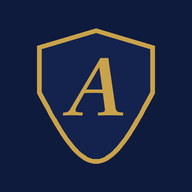
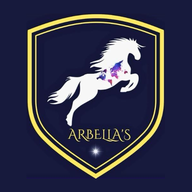
Add files via upload

Changed region(s): [[0.125, 0.0625, 0.875, 0.9375]]

diff --git a/index.html b/index.html
@@ -3,15 +3,16 @@
 <head>
 <meta charset="utf-8">
 <meta name="viewport" content="width=device-width,initial-scale=1,viewport-fit=cover">
-<meta name="theme-color" content="#0F1B3D">
+<meta name="theme-color" content="#171A3D">
 <meta name="apple-mobile-web-app-capable" content="yes">
 <meta name="mobile-web-app-capable" content="yes">
 <meta name="apple-mobile-web-app-status-bar-style" content="black-translucent">
-<meta name="apple-mobile-web-app-title" content="Arbella Studio">
+<meta name="apple-mobile-web-app-title" content="Arbellas Studio">
 <link rel="manifest" href="manifest.json">
+<link rel="icon" type="image/png" sizes="32x32" href="favicon-32.png">
 <link rel="icon" type="image/png" sizes="192x192" href="icon-192.png">
 <link rel="apple-touch-icon" href="apple-touch-icon.png">
-<title>Arbella Studio</title>
+<title>Arbellas Studio</title>
 <link rel="preconnect" href="https://fonts.googleapis.com">
 <link rel="stylesheet" href="https://fonts.googleapis.com/css2?family=Anton&family=Bodoni+Moda:ital,opsz,wght@0,6..96,500;0,6..96,700;1,6..96,500;1,6..96,700&family=Manrope:wght@400;600;800&display=swap">
 <style>
@@ -42,7 +43,7 @@ body{background:var(--bg);color:var(--ink);font-family:var(--body);font-size:15p
 header{display:flex;align-items:center;gap:12px}
 .brand{flex:1;min-width:0}
 .gear{flex:none}
-.mark{width:40px;height:46px;flex:none}
+.mark{width:46px;height:46px;flex:none;border-radius:11px;display:block}
 .brand h1{font-family:var(--display);font-style:italic;font-weight:700;font-size:28px;line-height:1;margin:0;color:var(--navy);text-wrap:balance}
 .brand p{margin:2px 0 0;color:var(--muted);font-size:13px}
 .grid{display:grid;grid-template-columns:1fr;gap:20px}
@@ -125,9 +126,9 @@ video#result{width:100%;max-width:340px;border-radius:14px;display:block;margin:
 
 <div class="wrap">
   <header>
-    <svg class="mark" viewBox="0 0 40 46" aria-hidden="true"><path d="M20 2 37 8v14c0 11-7.5 18-17 22C10.5 40 3 33 3 22V8z" fill="#0F1B3D" stroke="#C9A24A" stroke-width="2"/><text x="20" y="29" text-anchor="middle" font-family="Bodoni Moda, Georgia, serif" font-style="italic" font-weight="700" font-size="20" fill="#C9A24A">A</text></svg>
[1 lines of base64/hex data omitted]
     <div class="brand">
-      <h1>Arbella Studio</h1>
+      <h1>Arbellas Studio</h1>
       <p>Fotos de tu producto → guion con IA → video vertical para TikTok Shop</p>
     </div>
     <button class="gear" id="gearBtn" type="button" aria-expanded="false" aria-controls="settings"><span class="ai-dot" id="aiDot"></span>Ajustes</button>
@@ -294,6 +295,7 @@ video#result{width:100%;max-width:340px;border-radius:14px;display:block;margin:
 const $ = id => document.getElementById(id);
 const W = 720, H = 1280, SCENE = 2.6, END = 3.0;
 const cv = $('cv'), ctx = cv.getContext('2d');
+const BRAND = new Image(); BRAND.src = document.querySelector('.mark').src;
 
 /* ---------- Estado ---------- */
 const S = {
@@ -536,11 +538,10 @@ function drawFrame(t){
     const last = imgs[0];
     if (last){ ctx.save(); ctx.globalAlpha = tpl.light ? .12 : .22; cover(last, 1.2 - .05*p, 0, 0); ctx.restore(); }
     const a = ease(p*3), cx = W/2;
-    // escudo
-    ctx.save(); ctx.globalAlpha = a; ctx.translate(cx, 330 + (1-a)*30); ctx.scale(3.4,3.4);
-    ctx.beginPath(); ctx.moveTo(0,-22); ctx.lineTo(17,-16); ctx.lineTo(17,-2); ctx.bezierCurveTo(17,9,9.5,16,0,20); ctx.bezierCurveTo(-9.5,16,-17,9,-17,-2); ctx.lineTo(-17,-16); ctx.closePath();
-    ctx.fillStyle = tpl.light ? '#0F1B3D' : (S.tpl==='oferta' ? '#111' : '#0F1B3D'); ctx.fill(); ctx.lineWidth = 1.4; ctx.strokeStyle = '#C9A24A'; ctx.stroke();
-    ctx.fillStyle = '#C9A24A'; ctx.font = 'italic 700 20px "Bodoni Moda", Georgia, serif'; ctx.textAlign = 'center'; ctx.fillText('A', 0, 6);
+    // escudo de la marca
+    ctx.save(); ctx.globalAlpha = a; const es = 230, ex = cx - es/2, ey = 200 + (1-a)*30;
+    roundRect(ex, ey, es, es, 52); ctx.clip();
+    if (BRAND.complete && BRAND.naturalWidth) ctx.drawImage(BRAND, ex, ey, es, es); else { ctx.fillStyle = '#171A3D'; ctx.fillRect(ex, ey, es, es); }
     ctx.restore();
     ctx.textAlign = 'center'; ctx.globalAlpha = a; ctx.fillStyle = tpl.light ? '#111' : tpl.acc;
     ctx.font = '800 30px Manrope, sans-serif'; if ('letterSpacing' in ctx) ctx.letterSpacing = '8px';

diff --git a/sw.js b/sw.js
@@ -1,7 +1,7 @@
 // Arbella Studio: guarda la app para que abra rápido y sin internet.
 // Cambia VERSION cada vez que subas cambios a index.html para que el iPhone tome la versión nueva.
-const VERSION = 'arbella-studio-v3';
-const SHELL = ['./', 'index.html', 'manifest.json', 'icon-192.png', 'icon-512.png', 'apple-touch-icon.png'];
+const VERSION = 'arbella-studio-v4';
+const SHELL = ['./', 'index.html', 'manifest.json', 'icon-192.png', 'icon-512.png', 'apple-touch-icon.png', 'favicon-32.png'];
 
 self.addEventListener('install', e => {
   e.waitUntil(caches.open(VERSION).then(c => c.addAll(SHELL)).then(() => self.skipWaiting()));
